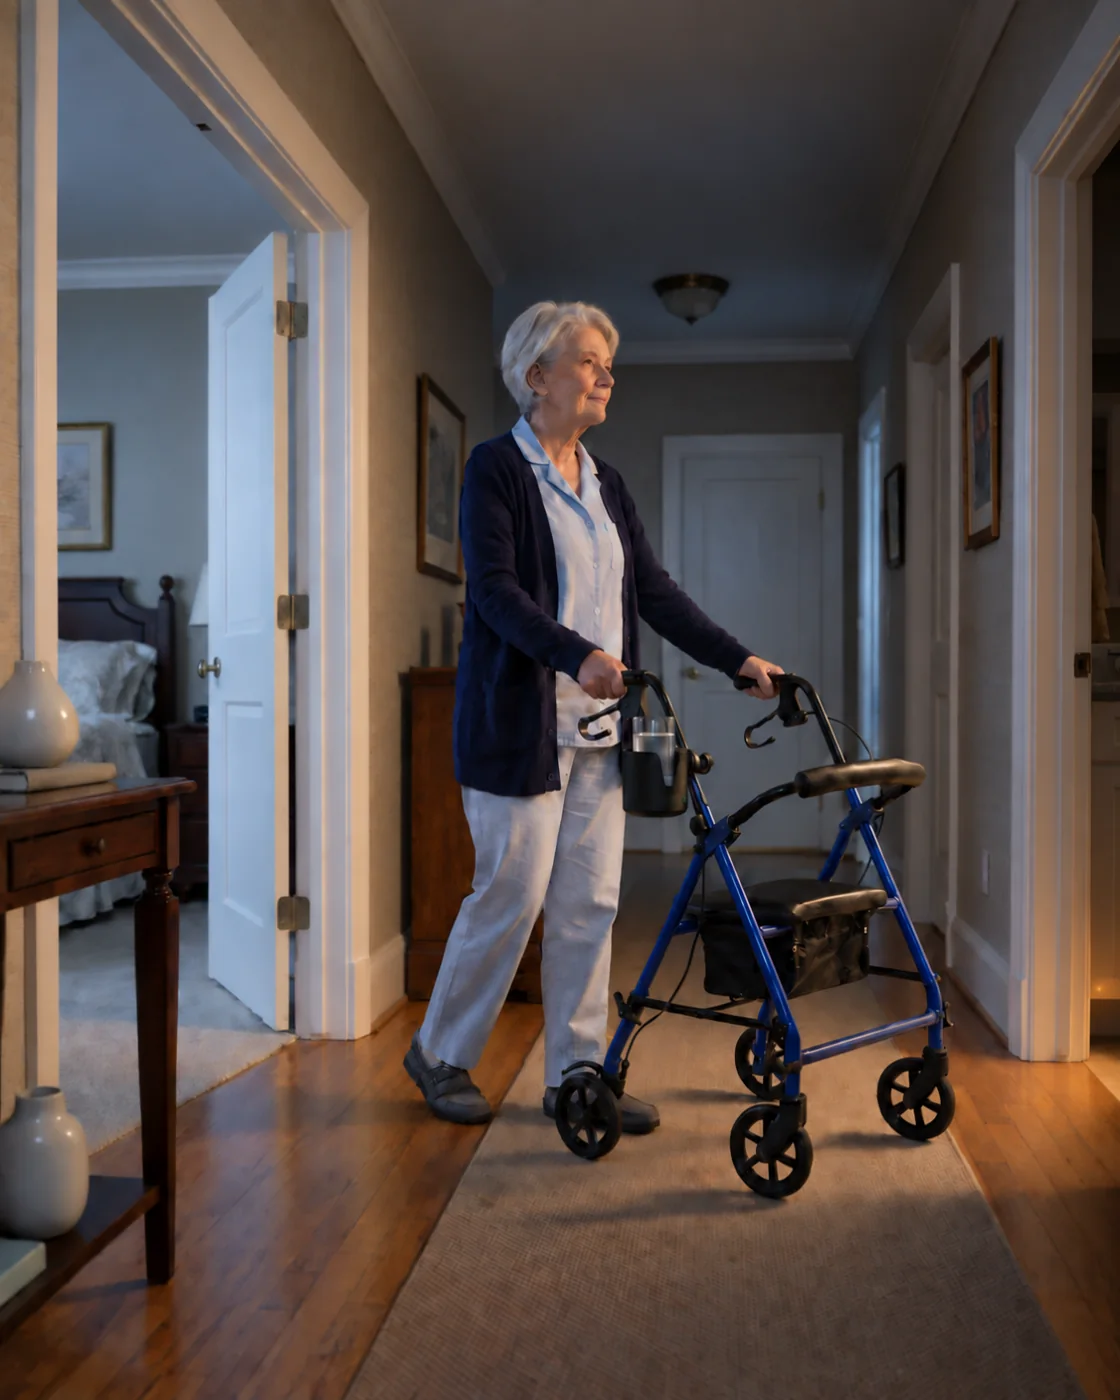
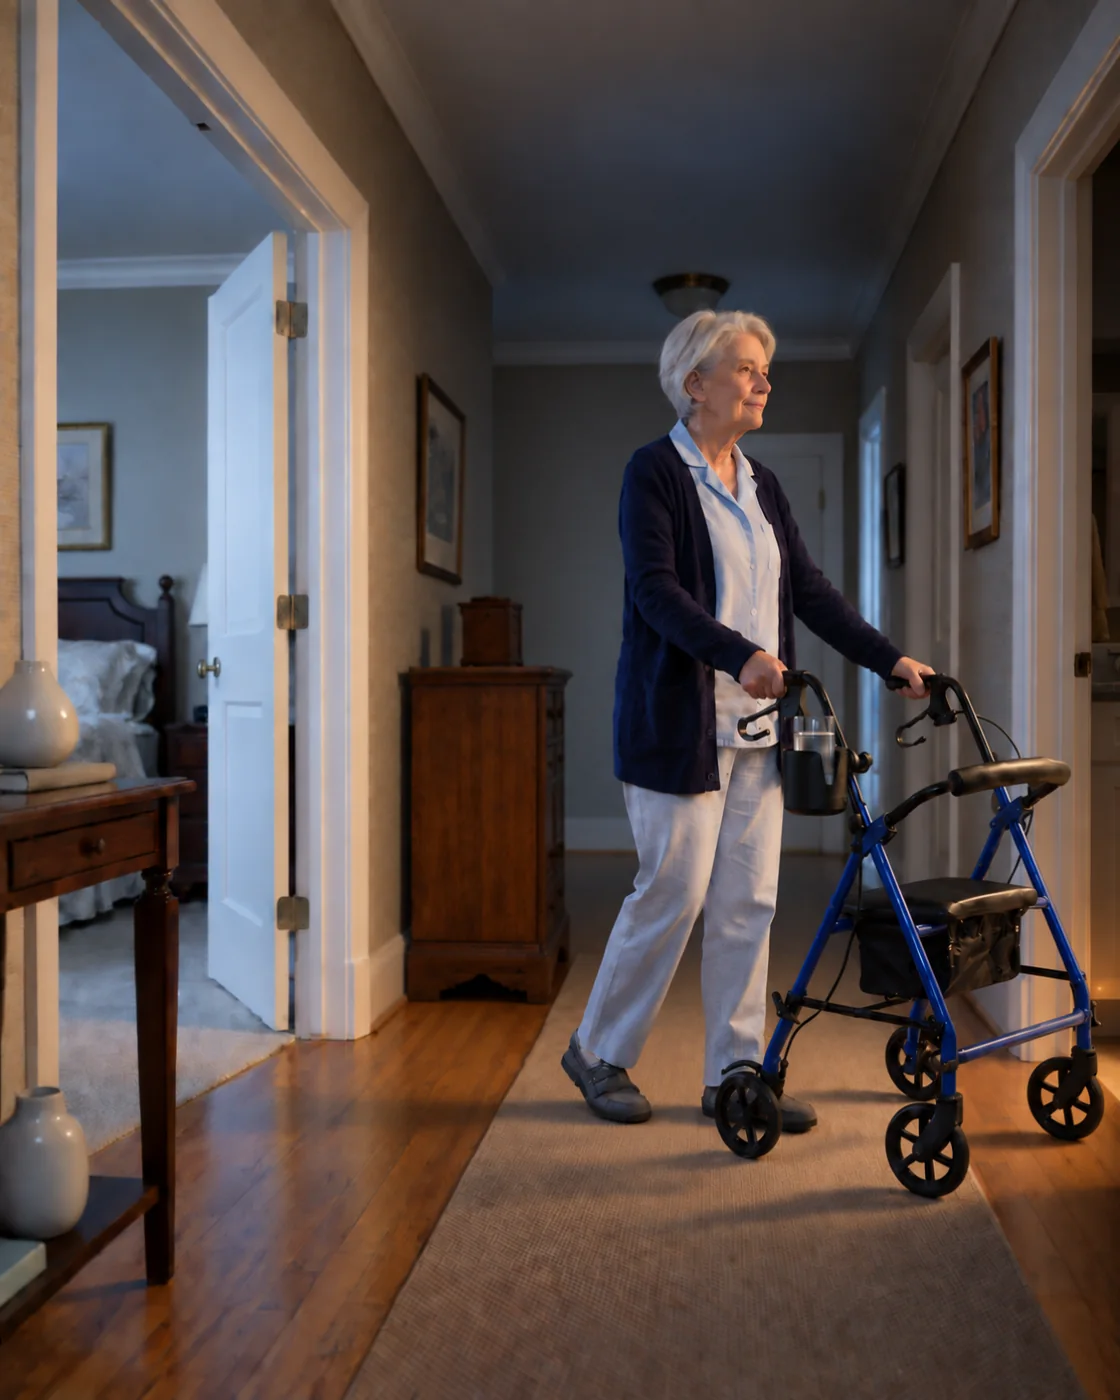
Refine overnight hero composition

Changed region(s): [[0.3438, 0.215, 1.0, 0.8907]]

diff --git a/cupholder-v2.html b/cupholder-v2.html
@@ -239,7 +239,7 @@
     .notification-check { background: rgba(255,247,243,.97); border-color: rgba(217,120,97,.58); }
     .notification-check .notification-dot { background: var(--coral); }
     @media (min-width: 681px) {
-      .notification-watch { left: -2.5rem; top: 1.5rem; width: 304px; }
+      .notification-watch { left: auto; right: 13rem; top: 1.5rem; width: 304px; }
       .notification-check { left: auto; right: -.75rem; top: 1.5rem; width: 276px; }
     }
     .notification-top { align-items: center; color: var(--muted); display: flex; font-size: .72rem; justify-content: space-between; margin-bottom: .55rem; }
@@ -557,6 +557,7 @@
       .hero-visual { min-height: 515px; }
       .hero-scenes { border-radius: 100px 100px 24px 24px; height: 500px; width: calc(100% - 18px); }
       .notification { left: 0; top: 1.4rem; width: min(282px, 86%); }
+      .notification-watch { width: 236px; }
       .product-proof-card { bottom: .8rem; left: 0; width: 248px; }
       .hero-carousel-controls { bottom: 11rem; right: 1.1rem; }
       .illustrative { text-align: left; }
